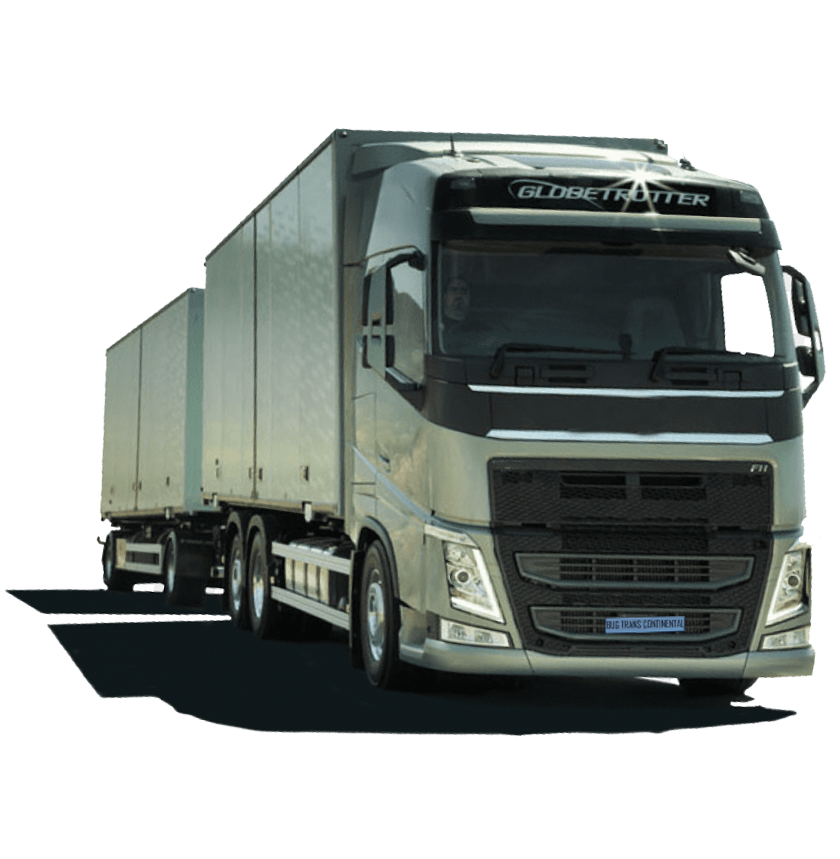
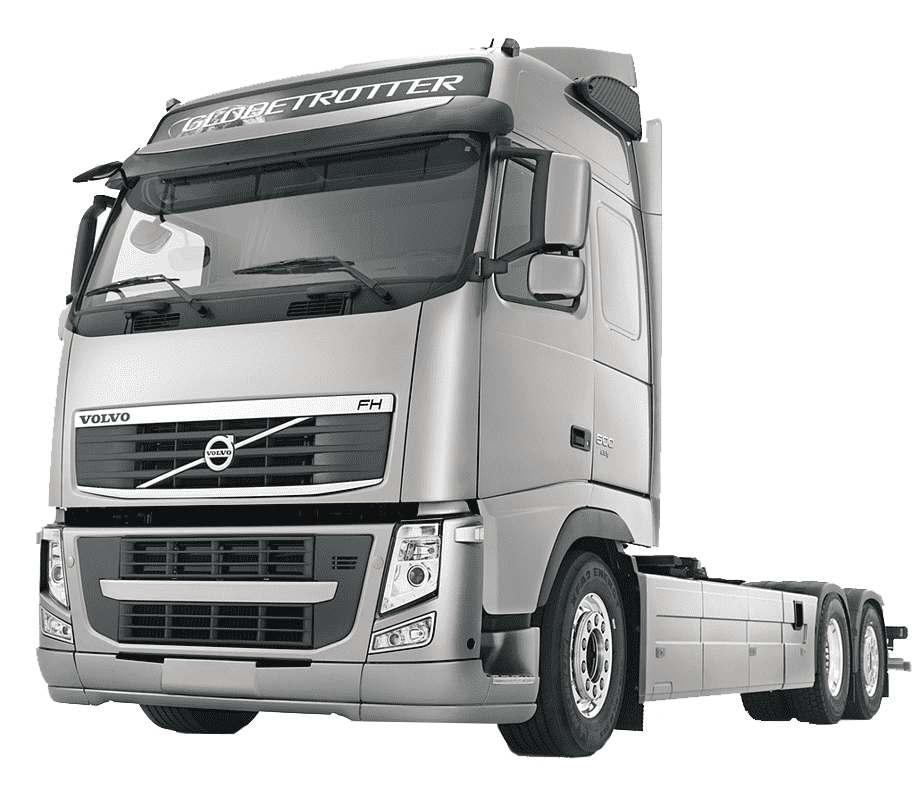
truck2

diff --git a/trucking.html b/trucking.html
@@ -73,7 +73,7 @@
         <h1 class="truck_title"><span>Грузоперевозки</span></h1>
         <div class="truck_wrapper">
             <div class="truck_img">
-                <img src="img/perevoz_truck.png" alt="Перевозка грузов" class="truck_main" data-aos="fade-right">
+                <img src="img/perevoz_truck2.png" alt="Перевозка грузов" class="truck_main" data-aos="fade-right">
             </div>
             <div class="truck_desc">
                 <p class="truck_text"><b>Международные автомобильные грузовые перевозки</b> – быстрый, удобный, надежный и экономически выгодный способ транспортировки материальных ценностей.</p>
